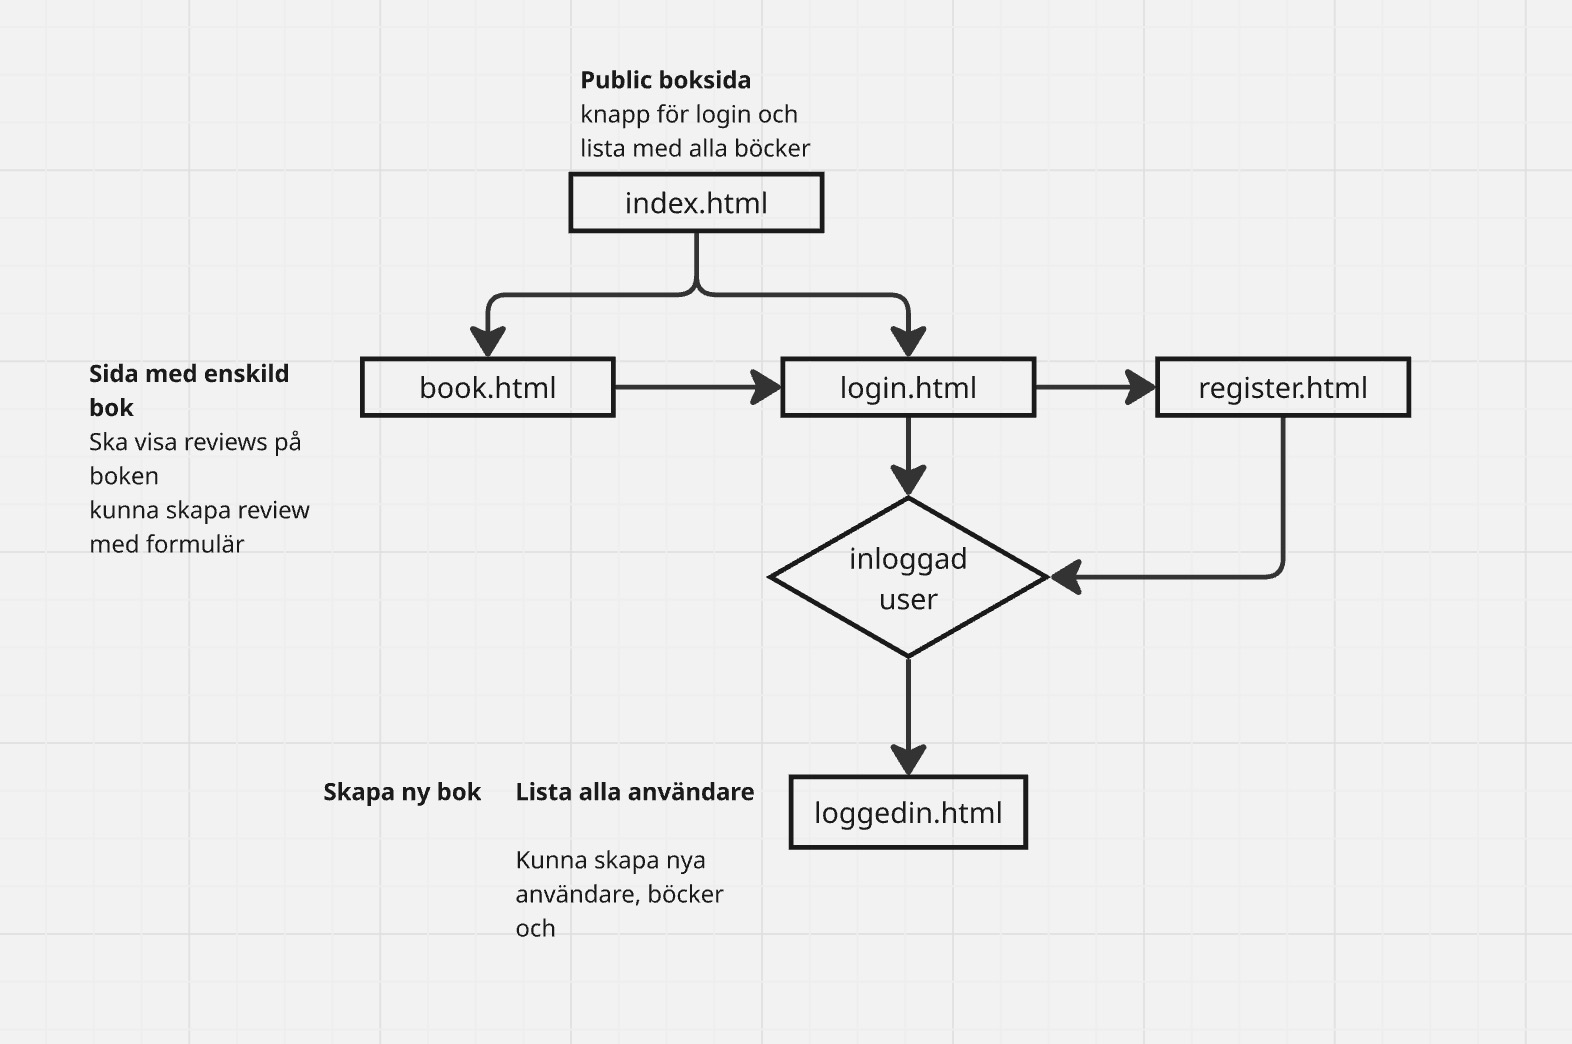
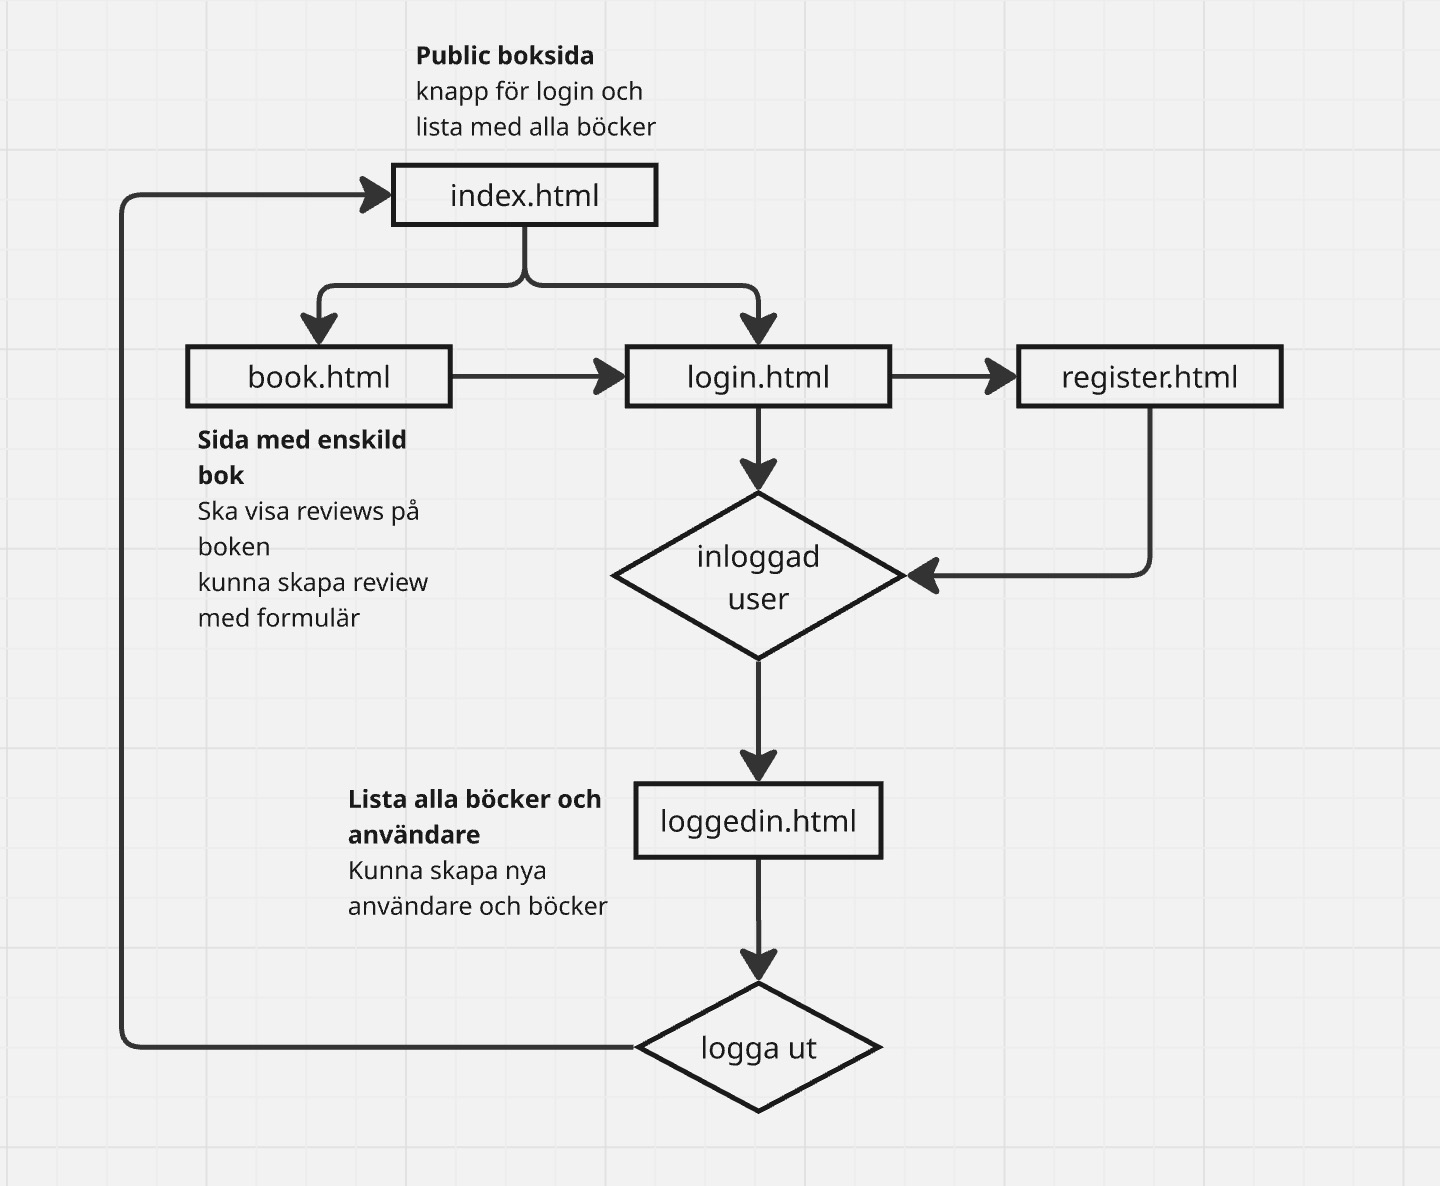
Added correct flow chart and added a screenshot from the project to readme

Changed region(s): [[0.0625, 0.0307, 0.9062, 0.9502], [0.5938, 0.5824, 0.625, 0.613]]

diff --git a/README.md b/README.md
@@ -1,11 +1,13 @@
-# Gruppuppgift2 (kom på namn)
+# Bokradar
 
 Detta grupprojekt är ett fullstack‑system byggt med **Express + TypeScript + MongoDB**, där vi skapar ett Book API med tre tabeller: **users**, **books** och **reviews**, samt en klient med både öppna och lösenordsskyddade sidor.
+
+![Bokradar](bokradar.jpg) 
 
 ## Innehåll
 
 - Tekniker
-- Flow
+- Flöde
 - Databasstruktur
 - Installation & körning
 - API-endpoints
@@ -20,7 +22,7 @@ Detta grupprojekt är ett fullstack‑system byggt med **Express + TypeScript + 
 - Insomnia — API‑klient för att testa endpoints
 - Bootstrap - UI-ramverk för klienten
 
-## Flow
+## Flöde
 ![Flow](flow.jpg) 
 
 
